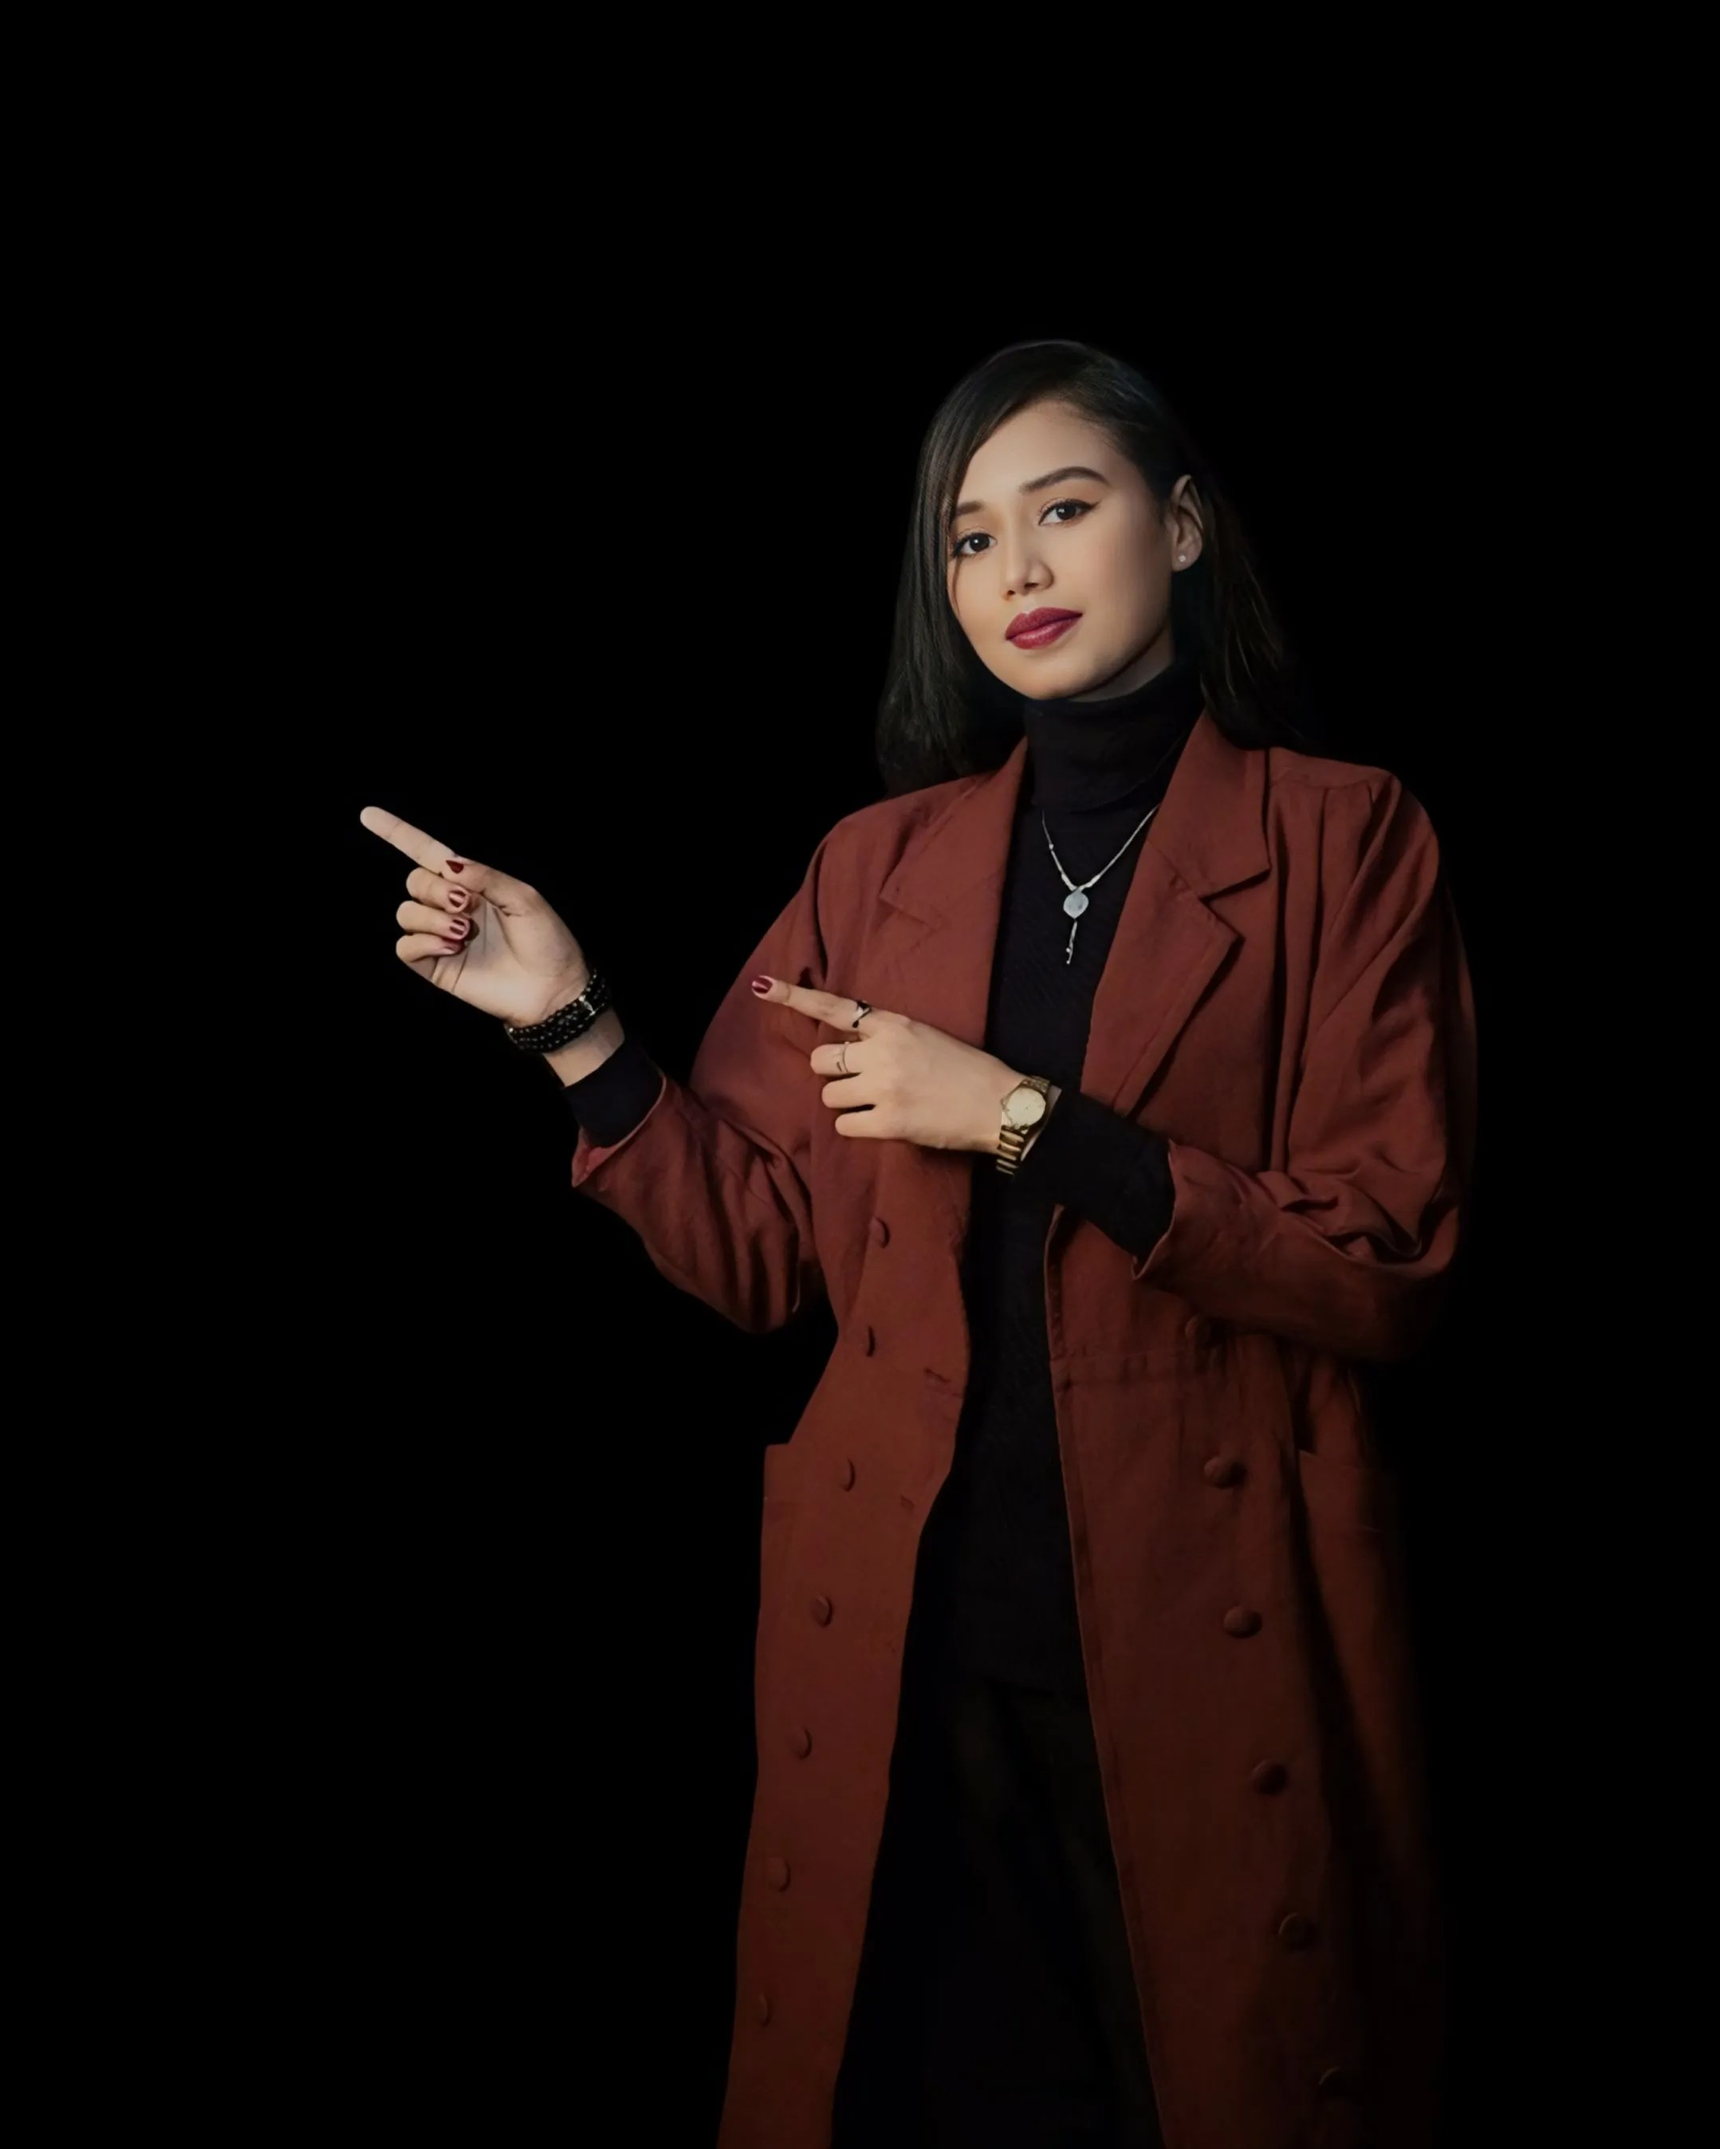
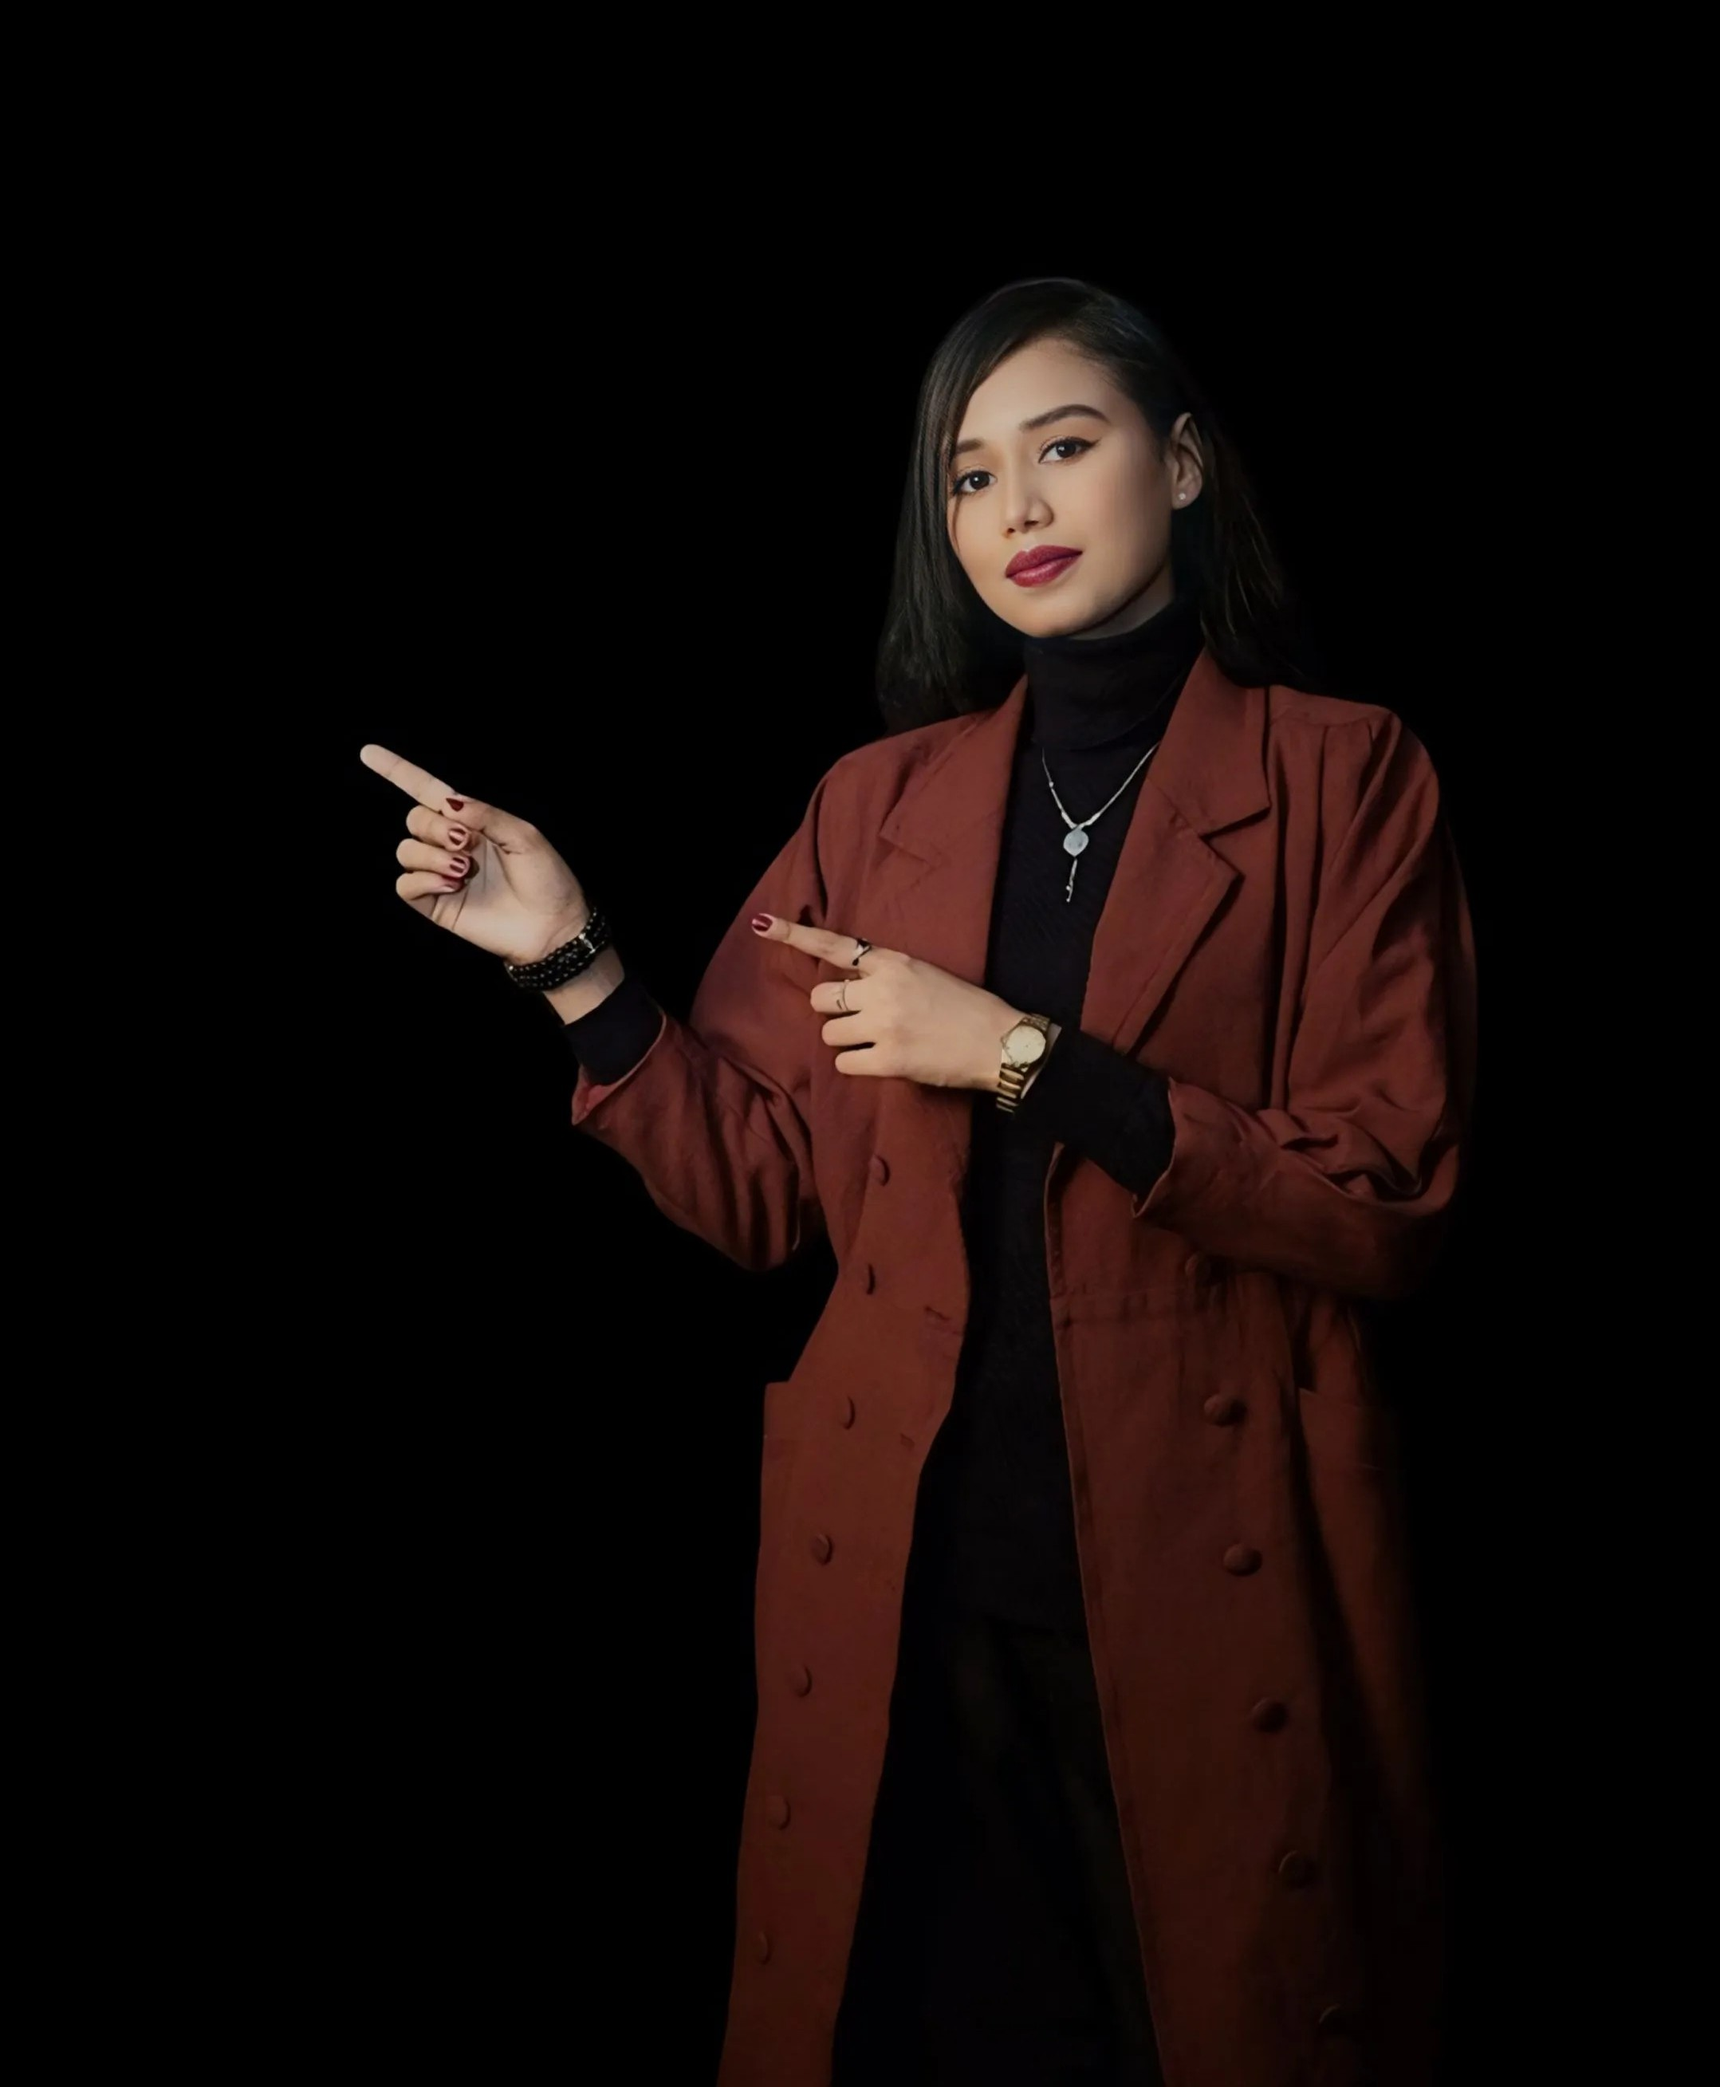
added slider

diff --git a/src/Components/BannerSlide/BannerSlide.jsx b/src/Components/BannerSlide/BannerSlide.jsx
@@ -1,0 +1,59 @@
+import React from 'react'
+import './BannerSlider.css'
+import { Fade } from 'react-slideshow-image'
+import 'react-slideshow-image/dist/styles.css'
+import Madina1 from '../../assets/Madina1.webp'
+import Madina2 from '../../assets/Madina2.webp'
+import Madina3 from '../../assets/Madina3.webp'
+import Madina4 from '../../assets/Madina4.webp'
+
+const BannerSlide = () => {
+
+
+    const fadeImages = [
+        {
+            url: Madina4,
+        },
+        {
+            url: Madina1,
+        },
+        {
+            url: Madina3,
+        },
+        {
+            url: Madina2,
+        }
+    
+    ];
+
+
+    const properties = {
+        duration: 2000,
+        transitionDuration: 1000, 
+        infinite: true, 
+        indicators: false, 
+        arrows: false
+        
+    }
+
+  return (
+    <>
+    
+    
+    <div className="slide-container">
+                <Fade {...properties}>
+                    {fadeImages.map((fadeImage, index) => (
+                        <div key={index}>
+                            <img style={{ width: '100%'}} src={fadeImage.url} />
+                        </div>
+                    ))}
+                </Fade>
+            </div>
+    
+    
+    
+    </>
+  )
+}
+
+export default BannerSlide

diff --git a/src/Components/Banner/Banner.jsx b/src/Components/Banner/Banner.jsx
@@ -3,12 +3,9 @@ import './Banner.css'
 import bannerimg from '../../assets/Banner.png'
 import { Link } from 'react-router'
 import YouTubeLogo from '../../assets/YouTube.png'
-import Madina1 from '../../assets/Madina1.webp'
-import Madina2 from '../../assets/Madina2.webp'
-import Madina3 from '../../assets/Madina3.webp'
-import Madina4 from '../../assets/Madina4.webp'
 import Typewriter from 'typewriter-effect';
 import AnimatedCoursor from '../CouserEffect/AnimatedCoursor'
+import BannerSlide from '../BannerSlide/BannerSlide'
 
 
 
@@ -69,11 +66,9 @@ const Banner = () => {
                </div>
   
                 <div className='right_side overflow-hidden absolute top-0 right-0'>
-                <img className='' src={Madina2} alt="picture"/>
+                   <BannerSlide/>
                 </div>
-               
-                 
-            
+                  
 
         </div>
        

diff --git a/src/Components/Navbar/Navbar.css b/src/Components/Navbar/Navbar.css
@@ -1,6 +1,28 @@
 .Mina_nav{
 
-    @apply w-full absolute bg-transparent py-[25px]
+    @apply w-full  fixed bg-transparent py-[15px];
+
+    animation: scroll-transition;
+    animation-timeline: scroll(y);
+}
+
+@keyframes scroll-transition{
+
+    0%{
+        background-color: transparent;
+    }
+
+    20%{
+
+        background-color:#000000cf;
+        
+    }
+
+    100%{
+
+        background-color:#000000cf;
+        
+    }
 }
 
 .main_nav{

diff --git a/src/Components/Banner/Banner.css b/src/Components/Banner/Banner.css
@@ -108,7 +108,7 @@
  }
 
 
- .right_side img{
+ .right_side{
 
     @apply lg:w-[700px] lg:h-screen overflow-hidden
  }
